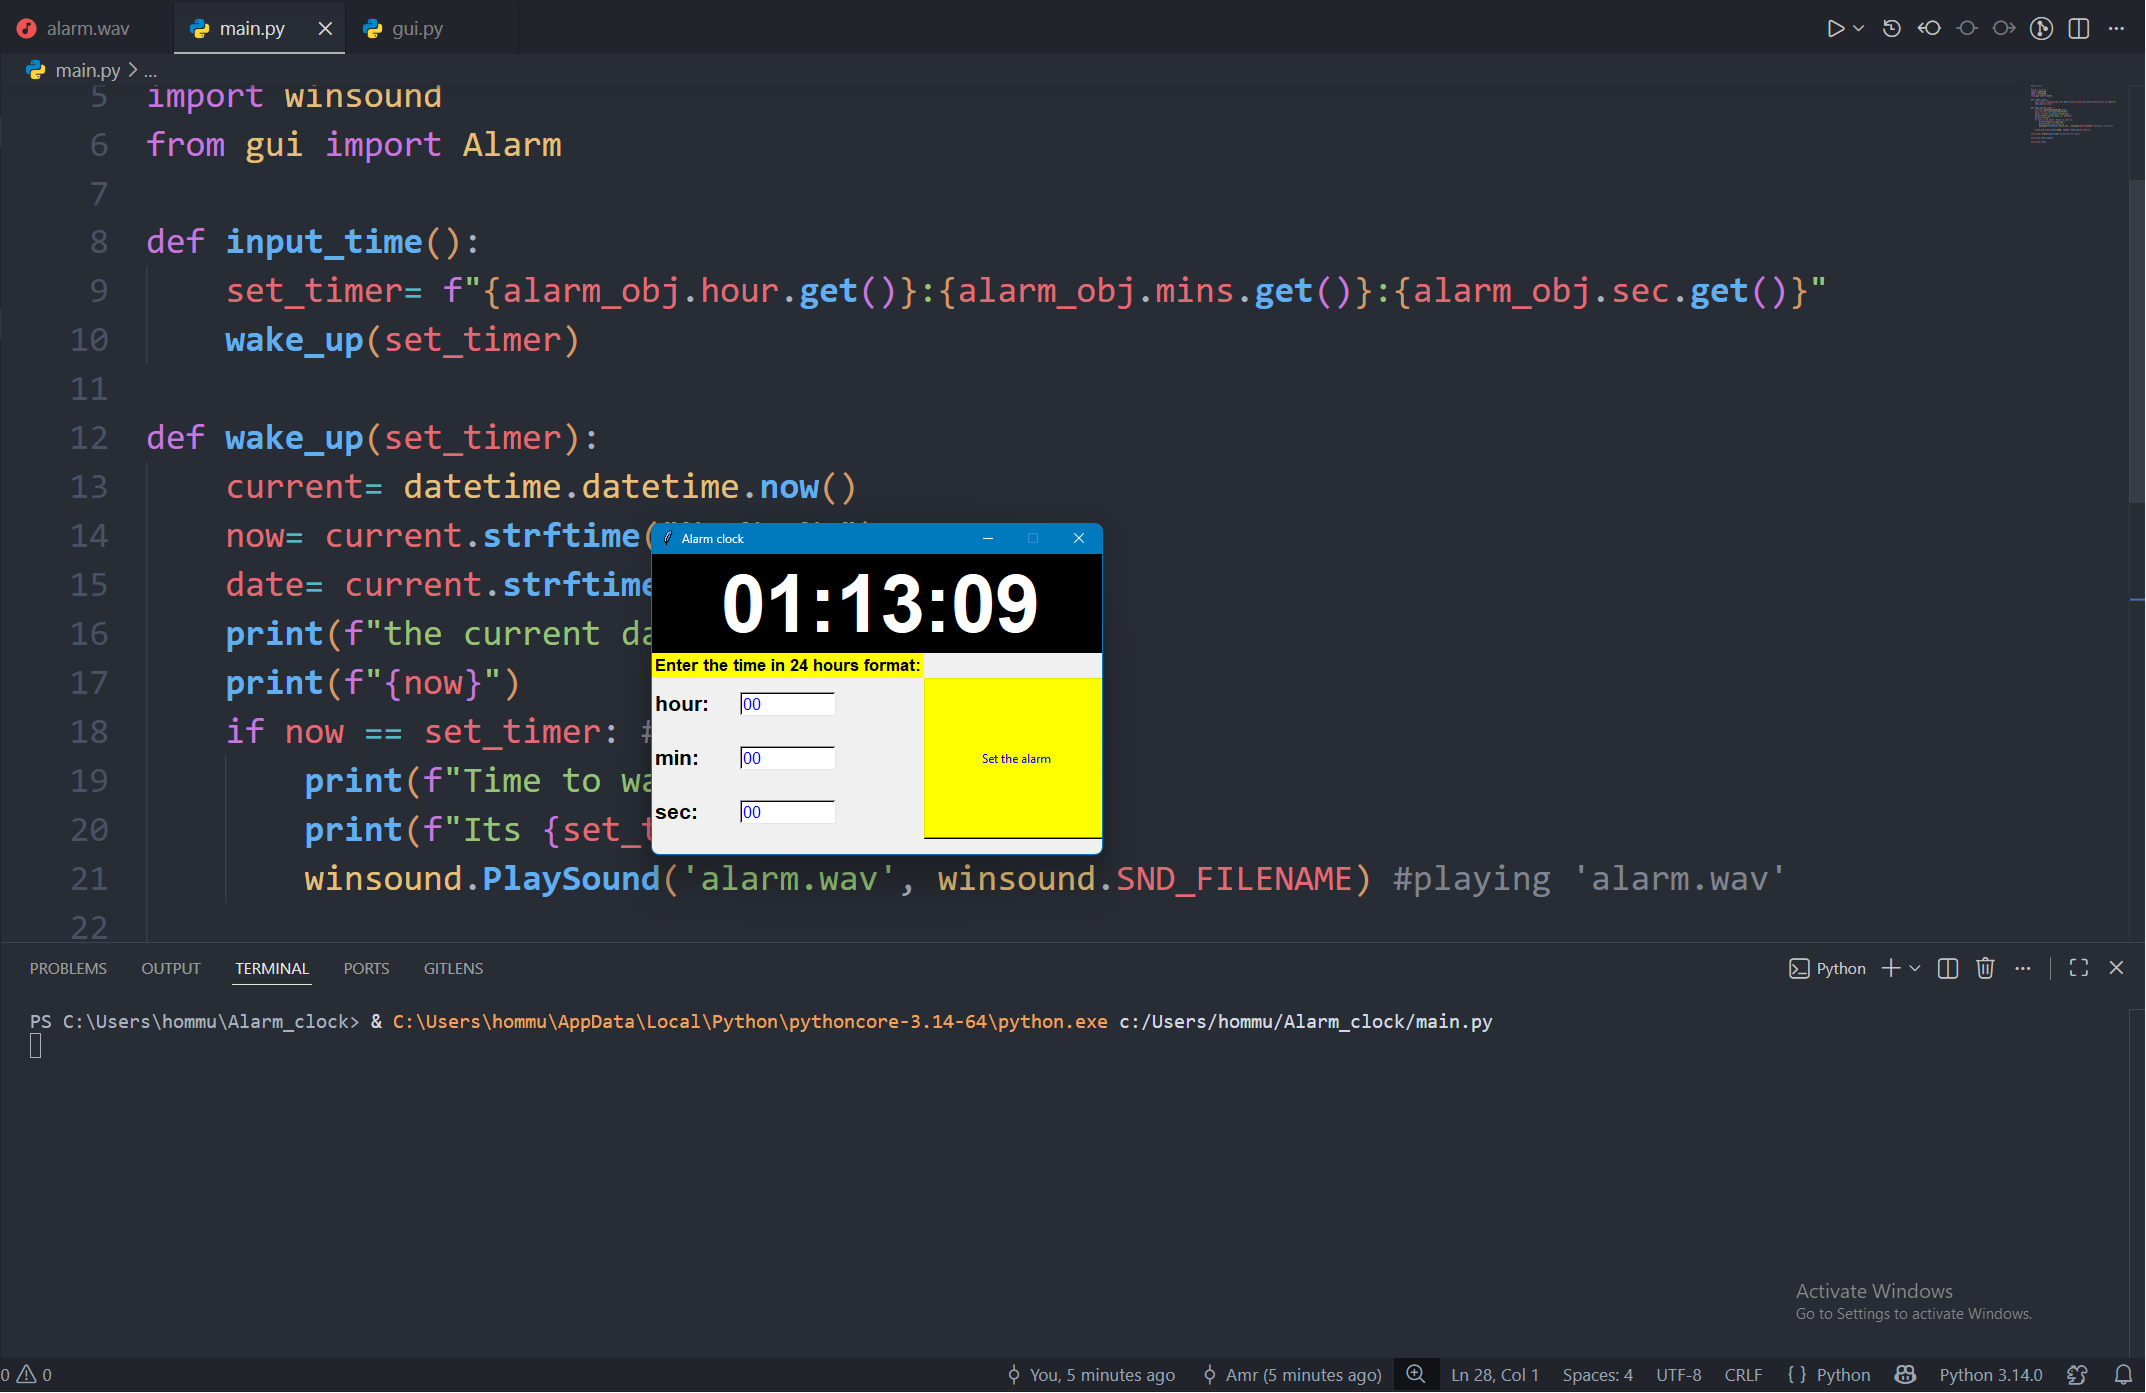
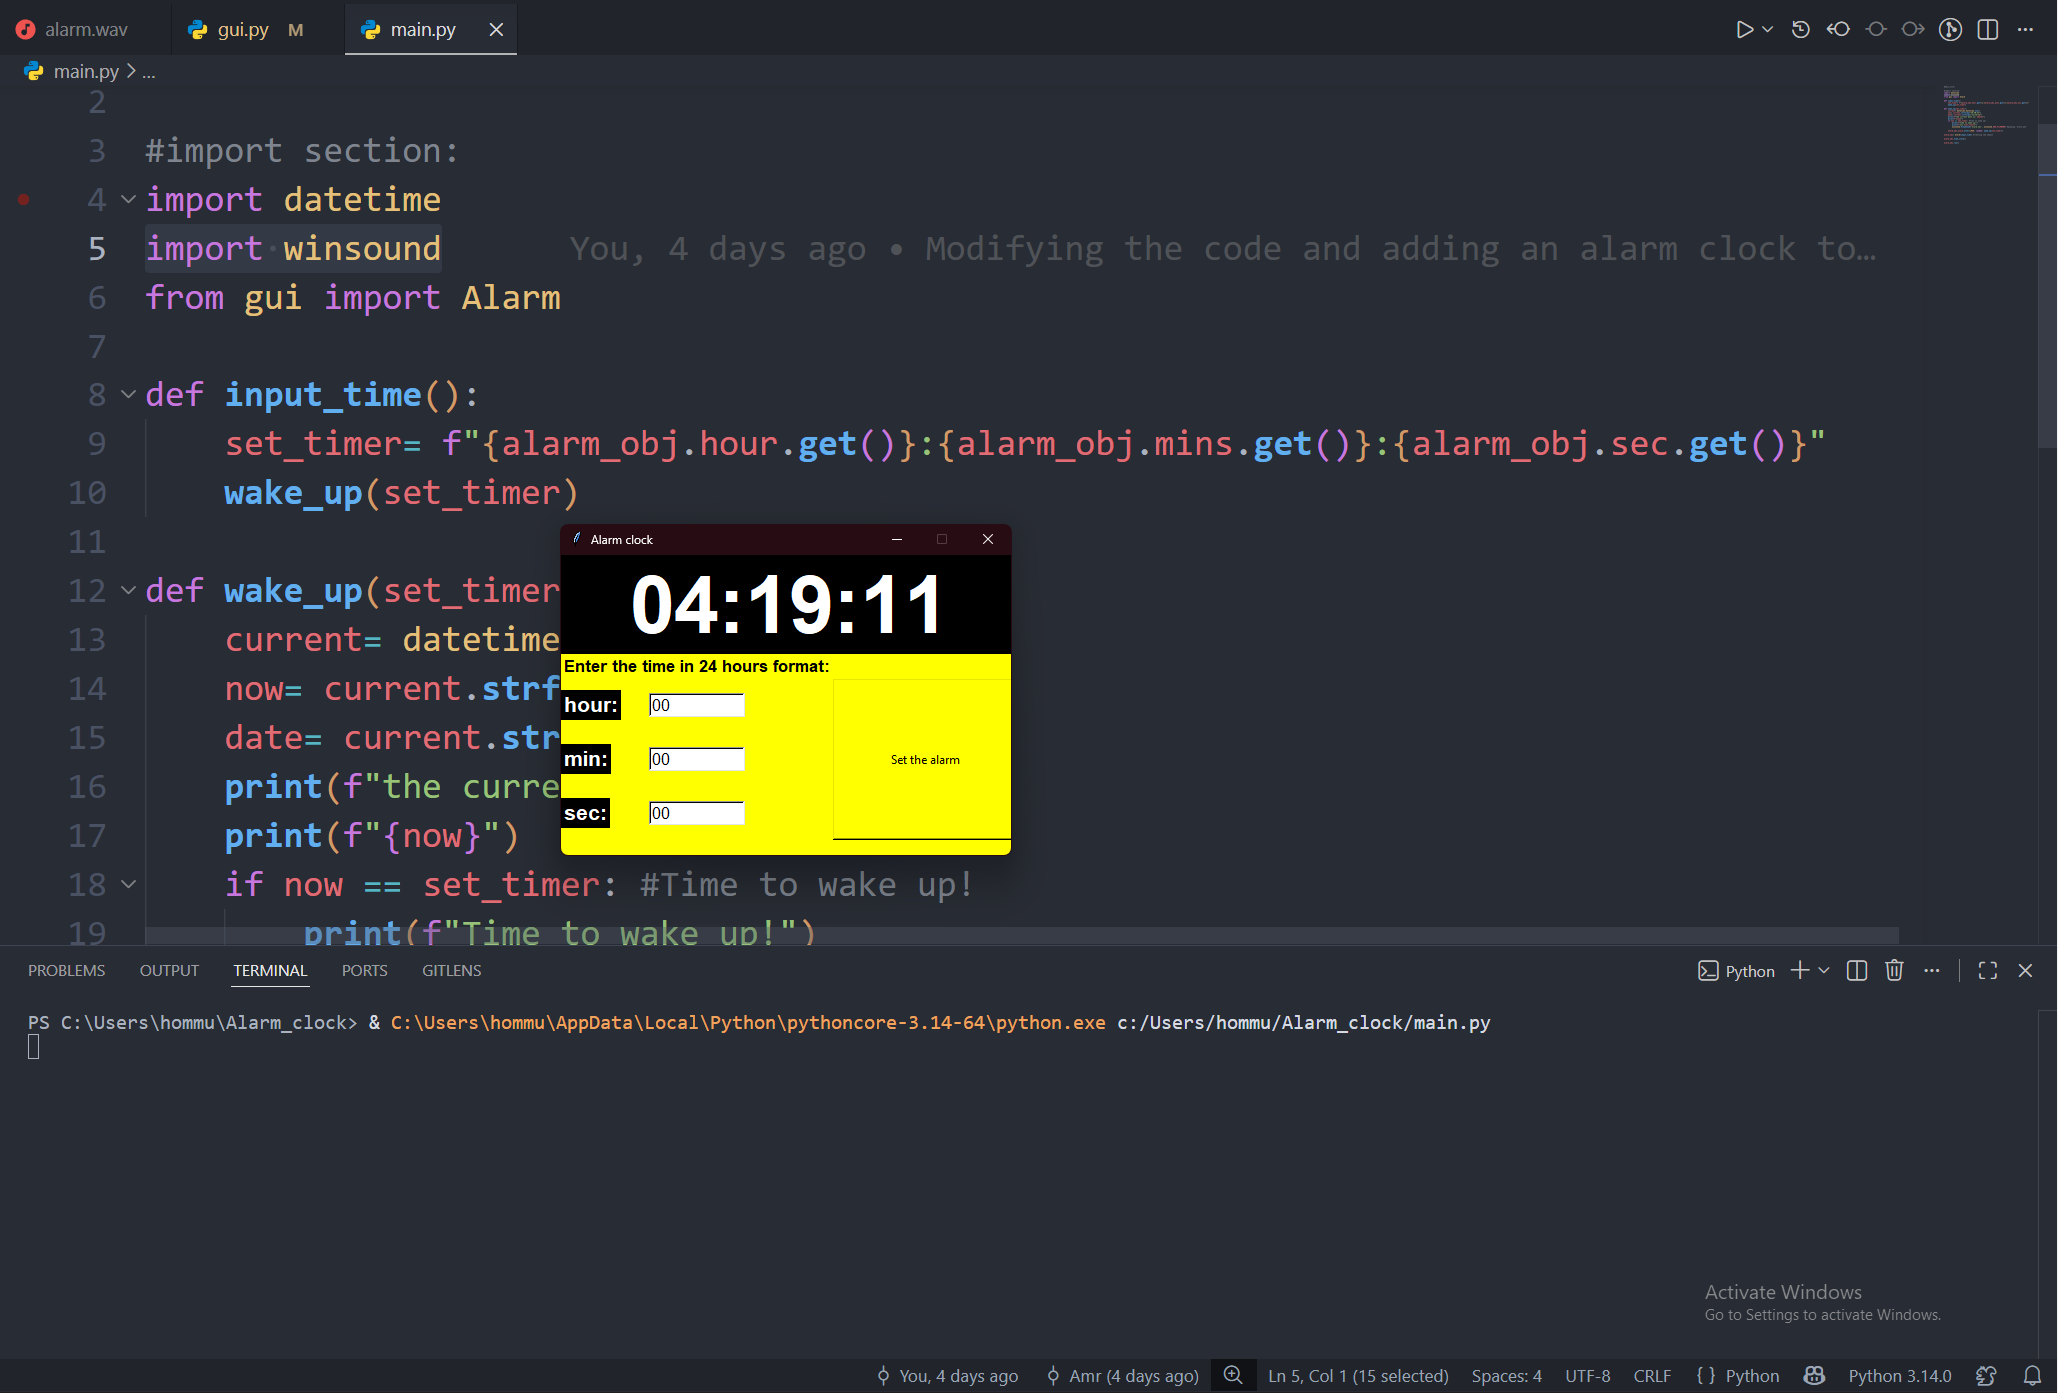
Modified the color of the alarm

diff --git a/gui.py b/gui.py
@@ -11,6 +11,7 @@ class Alarm():
 
         self.alarm= Tk()
         self.alarm.title("Alarm clock")
+        self.alarm.config(bg="yellow")
         self.alarm.resizable(False, False)
         self.alarm.geometry("450x300")
 
@@ -33,15 +34,15 @@ class Alarm():
         self.user_time.grid(row=2)
 
         self.hr= Label(self.alarm, font=(self.my_font, 16, "bold"),
-                    text= "hour:", foreground="black")
+                    text= "hour:", bg="black", foreground="white")
         self.hr.grid(row=3, column=0, sticky="w")
 
         self.mi= Label(self.alarm, font=(self.my_font, 16, "bold"),
-                    text= "min:", foreground="black")
+                    text= "min:", bg="black", foreground="white")
         self.mi.grid(row=4, column=0, sticky="w")
 
         self.se= Label(self.alarm, font=(self.my_font, 16, "bold"),
-                    text= "sec:", foreground="black")
+                    text= "sec:", bg="black", foreground="white")
         self.se.grid(row=5, column=0, sticky="w")
 
         self.hour= StringVar(value="00")
@@ -49,18 +50,18 @@ class Alarm():
         self.sec= StringVar(value="00")
 
         self.hour_time= Entry(textvariable=self.hour, width=10, bg="white",
-                    foreground="blue", bd=2, font=("Arial", 12))
+                    foreground="black", bd=2, font=("Arial", 12))
         self.hour_time.grid(row=3, column=0, sticky="")
 
         self.min_time= Entry(textvariable=self.mins, width=10, bg="white",
-                    foreground="blue", bd=2, font=("Arial", 12))
+                    foreground="black", bd=2, font=("Arial", 12))
         self.min_time.grid(row=4, column=0, sticky="")
 
         self.sec_time= Entry(textvariable=self.sec, width=10, bg="white",
-                    foreground="blue", bd=2, font=("Arial", 12))
+                    foreground="black", bd=2, font=("Arial", 12))
         self.sec_time.grid(row=5, column=0, sticky="")
 
-        self.submit=Button(text="Set the alarm", bg="yellow", fg="blue",
+        self.submit=Button(text="Set the alarm", bg="yellow", fg="black",
         activebackground="cyan", activeforeground="black",
         width=25, height=10,
         command= command_function)